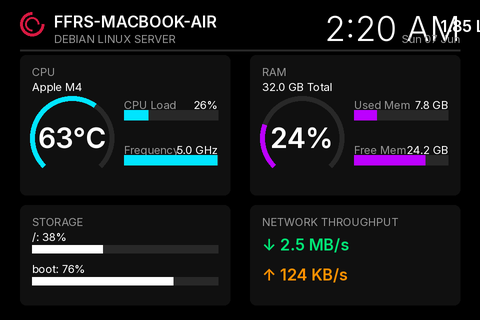
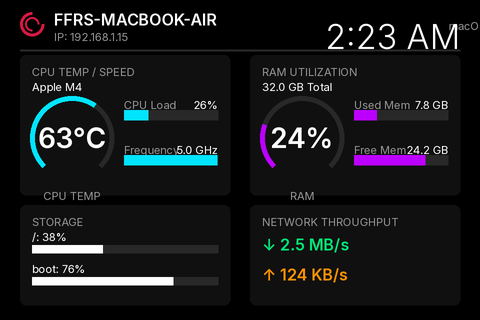
Show local IP, add explicit CPU TEMP label, and clean up clock area from extra dates

diff --git a/sysdash.py b/sysdash.py
@@ -2,9 +2,10 @@
 """Linux-focused system-monitor dashboard for the AX206 SmartCool USB screen.
 
 Renders a highly readable, compact, dark card-based dashboard:
-  - Header: Procedural Debian swirl logo, system load, and thin clock.
-  - CPU & RAM Cards (Middle): Large circular gauges (CPU Temp, RAM Usage %) and thick progress bars (Load, Freq, RAM Used, Free).
-  - Storage & Network Cards (Bottom): Disk partition fills (/ and /boot) and clear Network speeds.
+  - Header: Procedural Debian swirl logo, hostname, local IP, OS distro info, and thin clock.
+  - CPU Card (Middle-Left): CPU Temp gauge, Load (%), and Frequency.
+  - RAM Card (Middle-Right): RAM Usage gauge, Used, and Free details.
+  - Storage & Network Cards (Bottom): Disk partition usage (/ and /boot) and Network throughput speeds.
 """
 from __future__ import annotations
 
@@ -91,6 +92,30 @@ def get_cpu_model() -> str:
     return platform.processor() or "CPU"
 
 
+def get_ip_address() -> str:
+    """Find the primary local IP address of the system."""
+    try:
+        s = socket.socket(socket.AF_INET, socket.SOCK_DGRAM)
+        # Connect to an external host (does not send actual packets)
+        s.connect(("8.8.8.8", 80))
+        ip = s.getsockname()[0]
+        s.close()
+        return ip
+    except Exception:
+        return "127.0.0.1"
+
+
+def get_os_string() -> str:
+    try:
+        info = platform.freedesktop_os_release()
+        return f"{info.get('NAME', 'Linux')} {info.get('VERSION_ID', '')}".strip()
+    except Exception:
+        sys_name = platform.system()
+        if sys_name == "Darwin":
+            return f"macOS {platform.mac_ver()[0]}"
+        return f"{sys_name} {platform.release()}"
+
+
 def fmt_rate(bytes_per_s: float) -> str:
     if bytes_per_s >= 1e6:
         return f"{bytes_per_s / 1e6:.1f} MB/s"
@@ -163,21 +188,19 @@ def render(state: dict) -> Image.Image:
     d = ImageDraw.Draw(img)
 
     # ---- 1. Top Header ----
-    # Debian Logo & Host Info (Left)
+    # Debian Logo & Host / IP Info (Left)
     draw_debian_logo(d, 20 * SS, 12 * SS)
     hostname = socket.gethostname().split(".")[0].upper()
-    d.text((54 * SS, 12 * SS), hostname, font=F_MED, fill=INK)
-    d.text((54 * SS, 32 * SS), "DEBIAN LINUX SERVER", font=F_TINY, fill=DIM)
+    d.text((54 * SS, 10 * SS), hostname, font=F_MED, fill=INK)
+    d.text((54 * SS, 30 * SS), f"IP: {state['ip']}", font=F_TINY, fill=DIM)
 
-    # Load Average (Center-aligned to prevent overlap)
-    load_str = f"{state['load'][0]:.2f} LOAD"
-    text_centered(d, 480 * SS, 26 * SS, load_str, F_MED, INK)
+    # OS Info (Center-aligned to prevent overlap)
+    os_info = get_os_string()
+    text_centered(d, 480 * SS, 26 * SS, os_info, F_TINY, DIM)
 
-    # Clock & Date (Right)
+    # Clock (Right - ONLY Clock, Date & Load removed to clean area)
     clock_str = time.strftime("%I:%M %p").lstrip("0")
-    d.text((W * SS - 20 * SS, 8 * SS), clock_str, font=F_CLOCK, fill=INK, anchor="ra")
-    date_str = time.strftime("%a %d %b")
-    d.text((W * SS - 20 * SS, 32 * SS), date_str, font=F_TINY, fill=DIM, anchor="ra")
+    d.text((W * SS - 20 * SS, 16 * SS), clock_str, font=F_CLOCK, fill=INK, anchor="ra")
 
     # Separator Line
     d.line([(20 * SS, 50 * SS), ((W - 20) * SS, 50 * SS)], fill=TRACK, width=2 * SS)
@@ -190,15 +213,14 @@ def render(state: dict) -> Image.Image:
     d.rounded_rectangle([cx0, my0, cx1, my1], radius=6 * SS, fill=PANEL)
     
     # Title & CPU model
-    d.text((cx0 + 12 * SS, my0 + 10 * SS), "CPU", font=F_TINY, fill=DIM)
+    d.text((cx0 + 12 * SS, my0 + 10 * SS), "CPU TEMP / SPEED", font=F_TINY, fill=DIM)
     cpu_model = get_cpu_model()
-    # Format model name cleanly
     clean_cpu = cpu_model.replace("(R)", "").replace("(TM)", "").replace("CPU", "").strip()
     if len(clean_cpu) > 20:
         clean_cpu = clean_cpu[:18] + "..."
     d.text((cx0 + 12 * SS, my0 + 25 * SS), clean_cpu, font=F_TINY, fill=INK)
 
-    # CPU Arc Gauge (Temp/Usage)
+    # CPU Arc Gauge (Displays Temperature inside)
     gauge_cx = cx0 + 52 * SS
     gauge_cy = my0 + 83 * SS
     cpu_pct = state["cpu"]
@@ -206,6 +228,8 @@ def render(state: dict) -> Image.Image:
     temp_str = f"{temp_val:.0f}°C" if temp_val else f"{cpu_pct:.0f}%"
     temp_color = RED if (temp_val and temp_val > 70) else CYAN
     gauge_arc(d, gauge_cx, gauge_cy, 42 * SS, 5 * SS, temp_val if temp_val else cpu_pct, temp_color, temp_str)
+    # Gauge label underneathcircle
+    text_centered(d, gauge_cx, gauge_cy + 42 * SS + 16 * SS, "CPU TEMP", F_TINY, DIM)
 
     # CPU side progress bars (LOAD and FREQ)
     bx0, bx1 = cx0 + 104 * SS, cx1 - 12 * SS
@@ -229,13 +253,14 @@ def render(state: dict) -> Image.Image:
     d.rounded_rectangle([cx0, my0, cx1, my1], radius=6 * SS, fill=PANEL)
 
     # Title & RAM Details
-    d.text((cx0 + 12 * SS, my0 + 10 * SS), "RAM", font=F_TINY, fill=DIM)
+    d.text((cx0 + 12 * SS, my0 + 10 * SS), "RAM UTILIZATION", font=F_TINY, fill=DIM)
     d.text((cx0 + 12 * SS, my0 + 25 * SS), f"{state['ram_total']:.1f} GB Total", font=F_TINY, fill=INK)
 
     # RAM Arc Gauge
     gauge_cx = cx0 + 52 * SS
     ram_pct = state["ram"]
     gauge_arc(d, gauge_cx, gauge_cy, 42 * SS, 5 * SS, ram_pct, PURPLE, f"{ram_pct:.0f}%")
+    text_centered(d, gauge_cx, gauge_cy + 42 * SS + 16 * SS, "RAM", F_TINY, DIM)
 
     # RAM side progress bars (USED and FREE)
     bx0, bx1 = cx0 + 104 * SS, cx1 - 12 * SS
@@ -318,11 +343,6 @@ def collect_state(prev_net, dt: float) -> tuple[dict, any]:
     rx = (net.bytes_recv - prev_net.bytes_recv) / dt if dt > 0 else 0
     tx = (net.bytes_sent - prev_net.bytes_sent) / dt if dt > 0 else 0
 
-    try:
-        load = psutil.getloadavg()
-    except Exception:
-        load = (0.0, 0.0, 0.0)
-
     return {
         "cpu": cpu,
         "cpu_freq": cpu_freq,
@@ -336,7 +356,7 @@ def collect_state(prev_net, dt: float) -> tuple[dict, any]:
         "rx": rx,
         "tx": tx,
         "temp": get_cpu_temp(),
-        "load": load,
+        "ip": get_ip_address(),
     }, net
 
 